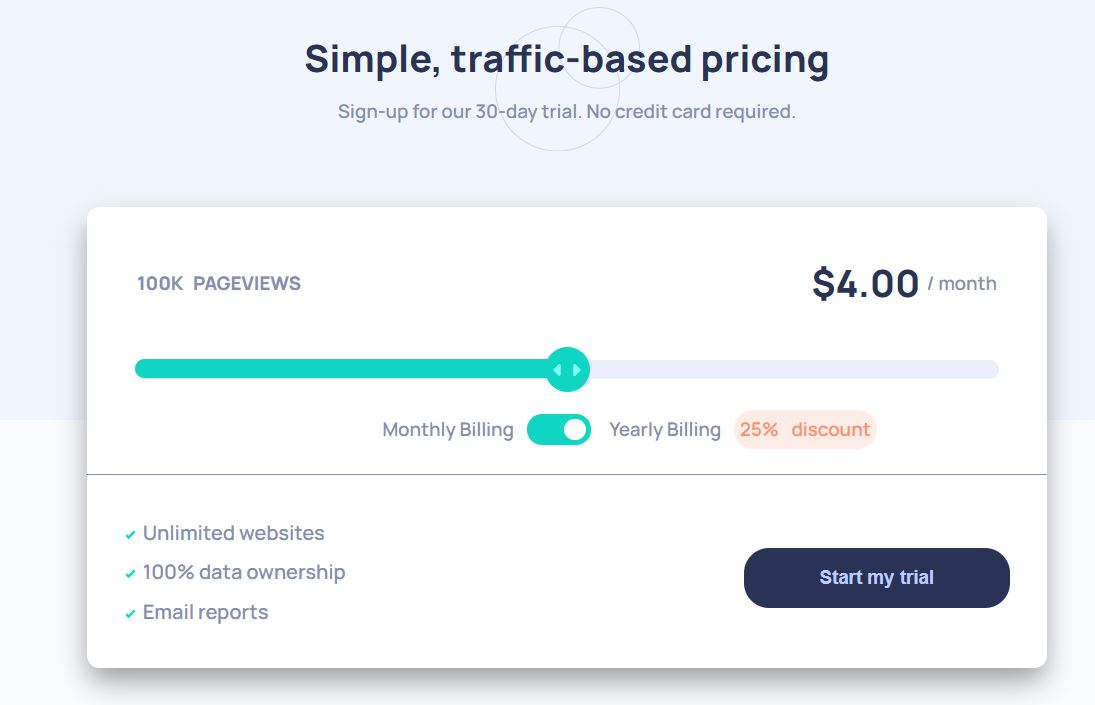
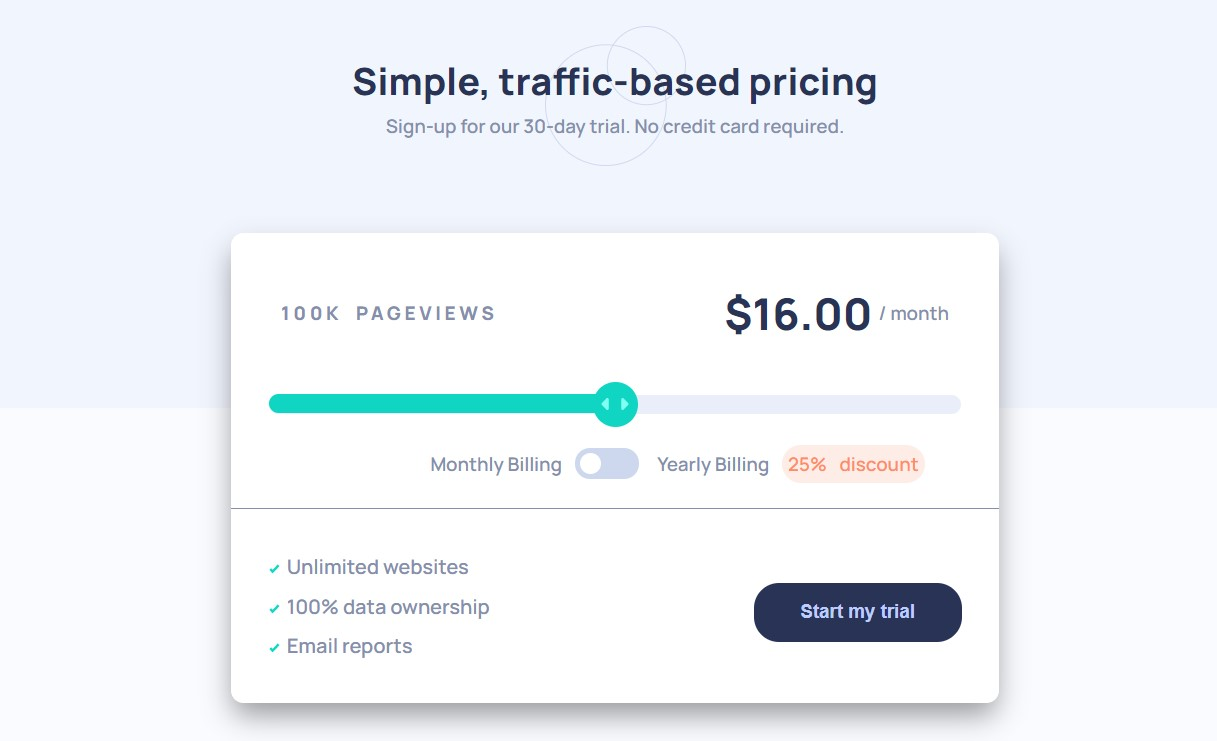
Small Changes
Changed width of main element for larger viewport. Small changes Header element. Added Live Site and Solution URLs.

Changed region(s): [[0.0621, 0.3433, 0.9936, 0.9986], [0.2795, 0.0624, 0.7763, 0.1872]]

diff --git a/dist/style.css b/dist/style.css
@@ -1,2 +1,2 @@
-.header{background-image:url(../images/bg-pattern.svg);background-size:100% 100%;height:350px;text-align:center}.header,.header__descript{background-repeat:no-repeat;padding:1.25rem}.header__descript{background-image:url(../images/pattern-circles.svg);background-position:50%;background-size:contain}.header__descript h1{color:var(--darkDesaturatedBlue-TextandCTA-Background);font-size:1.25rem;font-weight:800;padding-bottom:.625rem}@media (min-width:71.875em){.header__descript h1{font-size:1.875rem}}.header__descript p{color:var(--grayishBlue-Text);font-size:.9375rem;line-height:1.6;margin-inline:auto;max-width:21ch}@media (min-width:71.875em){.header__descript p{max-width:none}}.main{-webkit-margin-before:-8.75rem;background-color:var(--white-PricingComponentBackground);border-radius:.625rem;box-shadow:0 12px 23px -2px rgba(0,0,0,.4);margin:auto;margin-block-start:-8.75rem;text-align:center;width:90%}@media (min-width:71.875em){.main{-webkit-margin-before:-10.625rem;display:grid;grid-template-areas:"view view money money" "slider slider slider slider" "toggle toggle toggle toggle" "offering offering offering offering";margin-block-start:-10.625rem;width:50%}}.main__pageviews{color:var(--grayishBlue-Text);font-size:.9375rem;font-weight:800;padding:2.5rem 1.25rem 1.25rem;text-transform:uppercase;word-spacing:.3125rem}@media (min-width:71.875em){.main__pageviews{align-self:center;grid-area:view;justify-self:start;padding:2.5rem}.main__slider{align-self:center;grid-area:slider;justify-self:center;width:90%}}.main__slider .hidden{height:1px;left:-1000px;overflow:hidden;position:absolute;top:auto;width:1px}.main__month{align-items:center;display:flex;justify-content:center;padding:1.25rem}@media (min-width:71.875em){.main__month{align-self:center;grid-area:money;justify-self:end;padding:2.5rem}}.main__month h2{color:var(--darkDesaturatedBlue-TextandCTA-Background);font-size:1.875rem;font-weight:800;padding-right:.3125rem}.main__month p{color:var(--grayishBlue-Text);font-size:.9375rem}@media (min-width:71.875em){.main__toggle{align-self:center;grid-area:toggle;justify-self:center;margin-left:6.25rem;padding:1.25rem}}.main__offering{border-top:1px solid var(--grayishBlue-Text);color:var(--grayishBlue-Text);padding:1.25rem}@media (min-width:71.875em){.main__offering{align-items:center;display:flex;grid-area:offering;justify-content:space-between;padding:1.875rem}}.main__offering ul{list-style-image:url(../images/icon-check.svg);list-style-position:inside}@media (min-width:71.875em){.main__offering ul{text-align:start}}.main__offering ul li{padding:.3125rem 0}.main__offering .button{background-color:var(--darkDesaturatedBlue-TextandCTA-Background);border:none;border-radius:1.25rem;color:var(--paleBlue-CTA-Text);cursor:pointer;font-size:.9375rem;font-weight:600;margin-top:.625rem;padding:.9375rem;width:60%}@media (min-width:71.875em){.main__offering .button{width:30%}}.main__offering .button:active,.main__offering .button:hover{color:var(--white-PricingComponentBackground)}.toggle{align-items:baseline;align-items:center;border:none;color:var(--grayishBlue-Text);display:flex;justify-content:center;padding-block:1.25rem}.toggle label{cursor:pointer}.toggle label:first-of-type{font-size:.9375rem;padding-right:.625rem}.toggle label:last-of-type{font-size:.9375rem;grid-area:year;padding:0 .625rem 0 .9375rem}.toggle__wrapper{height:1.5625rem;position:relative}.toggle__wrapper input[type=radio]{cursor:pointer;height:1.75rem;margin:0 -.125rem;opacity:0;width:1.75rem}.toggle__background{background-color:var(--lightGrayishBlue-ToggleBackground);border-radius:.75rem;display:block;height:100%;pointer-events:none;position:absolute;top:0;width:100%}.toggle .active{background-color:var(--strongCyan-SliderBackround)}.toggle__button{background-color:var(--white-PricingComponentBackground);border-radius:50%;height:1.0625rem;left:.25rem;position:absolute;right:100%;top:.25rem;transition:all .15s ease-in-out;width:1.0625rem}.toggle #yearlyB:checked~.toggle__button{left:calc(100% - 21px);right:3px}.toggle p{background:var(--lightGrayishRed-DiscountBackground);border-radius:1.25rem;color:var(--lightRed-DiscountText);font-size:.875rem;grid-area:minus;padding:.3125rem}@media (min-width:71.875em){.toggle p{align-items:center;display:flex;font-size:.9375rem;justify-content:center}}.toggle p span{display:none}@media (min-width:71.875em){.toggle p span{display:block;padding-left:.625rem}}.range{margin:auto;position:relative;width:90%}.range input[type=range]{-webkit-appearance:none;-moz-appearance:none;appearance:none;background-color:var(--lightGrayishBlue-EmptySliderBar);border-radius:1.25rem;cursor:pointer;height:.9375rem;outline:none;width:100%}.range input[type=range]::-webkit-slider-thumb{-webkit-appearance:none;appearance:none;background-color:var(--strongCyan-SliderBackround);background-image:url(../images/icon-slider.svg);background-position:50%;background-repeat:no-repeat;border-radius:50%;cursor:pointer;height:2.25rem;position:relative;width:2.25rem;z-index:3}.range input[type=range]::-webkit-slider-thumb:hover{box-shadow:0 5px 13px 3px var(--strongCyan-SliderBackround-active);cursor:pointer;-webkit-transition:.3s ease;transition:.3s ease}.range input[type=range]::-webkit-slider-thumb:active{background-color:var(--strongCyan-SliderBackround-active);box-shadow:0 0 15px 5px var(--strongCyan-SliderBackround);cursor:-webkit-grabbing;cursor:grabbing}.range input[type=range]::-moz-range-thumb{-moz-appearance:none;appearance:none;background-color:var(--strongCyan-SliderBackround);background-image:url(../images/icon-slider.svg);background-position:50%;background-repeat:no-repeat;border:none;border-radius:50%;cursor:pointer;height:2.25rem;position:relative;width:2.25rem;z-index:3}.range input[type=range]::-moz-range-thumb:hover{box-shadow:0 5px 13px 3px var(--strongCyan-SliderBackround-active);cursor:pointer;-moz-transition:.3s ease;transition:.3s ease}.range input[type=range]::-moz-range-thumb:active{background-color:var(--strongCyan-SliderBackround-active);box-shadow:0 0 15px 5px var(--strongCyan-SliderBackround);cursor:grabbing}.range__selector{bottom:-.3125rem;height:2.25rem;left:50%;position:absolute;transform:translateX(-50%);width:2.5rem}.range__background{background-color:var(--strongCyan-SliderBackround);border-radius:1.25rem;height:.9375rem;left:0;pointer-events:none;position:absolute;top:1px;width:50%}:root{--font-Manrope:"Manrope",sans-serif;--softCyan-FullSliderBar:#a5f3eb;--strongCyan-SliderBackround:#10d5c2;--strongCyan-SliderBackround-active:#0ca697;--lightGrayishRed-DiscountBackground:#feece7;--lightRed-DiscountText:#ff8c66;--paleBlue-CTA-Text:#bdccff;--white-PricingComponentBackground:#fff;--veryPaleBlue-MainBackground:#fafbff;--lightGrayishBlue-EmptySliderBar:#eaeefb;--lightGrayishBlue-ToggleBackground:#cdd7ee;--grayishBlue-Text:#858fad;--darkDesaturatedBlue-TextandCTA-Background:#293356}html{box-sizing:border-box;font-size:100%;height:100%}*,:after,:before{box-sizing:inherit;margin:0;padding:0}body{background-color:var(--veryPaleBlue-MainBackground);font-family:var(--font-Manrope)}
+.header{background-image:url(../images/bg-pattern.svg);background-size:100% 100%;height:350px;text-align:center}.header,.header__descript{background-repeat:no-repeat;padding:1.25rem}.header__descript{background-image:url(../images/pattern-circles.svg);background-position:50%;background-size:contain;line-height:1.6}@media (min-width:71.875em){.header__descript{margin-top:1.5625rem}}.header__descript h1{color:var(--darkDesaturatedBlue-TextandCTA-Background);font-size:1.25rem;font-weight:800}@media (min-width:71.875em){.header__descript h1{font-size:1.875rem}}.header__descript p{color:var(--grayishBlue-Text);font-size:.9375rem;line-height:1.6;margin-inline:auto;max-width:21ch}@media (min-width:71.875em){.header__descript p{max-width:none}}.main{-webkit-margin-before:-8.75rem;background-color:var(--white-PricingComponentBackground);border-radius:.625rem;box-shadow:0 12px 23px -2px rgba(0,0,0,.4);margin:auto;margin-block-start:-8.75rem;text-align:center;width:90%}@media (min-width:71.875em){.main{display:grid;grid-template-areas:"view view money money" "slider slider slider slider" "toggle toggle toggle toggle" "offering offering offering offering";width:40%}}.main__pageviews{color:var(--grayishBlue-Text);font-size:.9375rem;font-weight:800;letter-spacing:.1875rem;padding:2.5rem 1.25rem 1.25rem;text-transform:uppercase;word-spacing:.3125rem}@media (min-width:71.875em){.main__pageviews{align-self:center;grid-area:view;justify-self:start;padding:2.5rem}.main__slider{align-self:center;grid-area:slider;justify-self:center;width:90%}}.main__slider .hidden{height:1px;left:-1000px;overflow:hidden;position:absolute;top:auto;width:1px}.main__month{align-items:center;display:flex;justify-content:center;padding:1.25rem}@media (min-width:71.875em){.main__month{align-self:center;grid-area:money;justify-self:end;padding:2.5rem}}.main__month h2{color:var(--darkDesaturatedBlue-TextandCTA-Background);font-size:2.1875rem;font-weight:800;padding-right:.3125rem}.main__month p{color:var(--grayishBlue-Text);font-size:.9375rem}@media (min-width:71.875em){.main__toggle{align-self:center;grid-area:toggle;justify-self:center;margin-left:6.25rem;padding:1.25rem}}.main__offering{border-top:1px solid var(--grayishBlue-Text);color:var(--grayishBlue-Text);padding:1.25rem}@media (min-width:71.875em){.main__offering{align-items:center;display:flex;grid-area:offering;justify-content:space-between;padding:1.875rem}}.main__offering ul{list-style-image:url(../images/icon-check.svg);list-style-position:inside}@media (min-width:71.875em){.main__offering ul{text-align:start}}.main__offering ul li{padding:.3125rem 0}.main__offering .button{background-color:var(--darkDesaturatedBlue-TextandCTA-Background);border:none;border-radius:1.25rem;color:var(--paleBlue-CTA-Text);cursor:pointer;font-size:.9375rem;font-weight:600;margin-top:.625rem;padding:.9375rem;width:60%}@media (min-width:71.875em){.main__offering .button{width:30%}}.main__offering .button:active,.main__offering .button:hover{color:var(--white-PricingComponentBackground)}.toggle{align-items:baseline;align-items:center;border:none;color:var(--grayishBlue-Text);display:flex;justify-content:center;padding-block:1.25rem}.toggle label{cursor:pointer}.toggle label:first-of-type{font-size:.9375rem;padding-right:.625rem}.toggle label:last-of-type{font-size:.9375rem;grid-area:year;padding:0 .625rem 0 .9375rem}.toggle__wrapper{height:1.5625rem;position:relative}.toggle__wrapper input[type=radio]{cursor:pointer;height:1.75rem;margin:0 -.125rem;opacity:0;width:1.75rem}.toggle__background{background-color:var(--lightGrayishBlue-ToggleBackground);border-radius:.75rem;display:block;height:100%;pointer-events:none;position:absolute;top:0;width:100%}.toggle .active{background-color:var(--strongCyan-SliderBackround)}.toggle__button{background-color:var(--white-PricingComponentBackground);border-radius:50%;height:1.0625rem;left:.25rem;position:absolute;right:100%;top:.25rem;transition:all .15s ease-in-out;width:1.0625rem}.toggle #yearlyB:checked~.toggle__button{left:calc(100% - 21px);right:3px}.toggle p{background:var(--lightGrayishRed-DiscountBackground);border-radius:1.25rem;color:var(--lightRed-DiscountText);font-size:.875rem;grid-area:minus;padding:.3125rem}@media (min-width:71.875em){.toggle p{align-items:center;display:flex;font-size:.9375rem;justify-content:center}}.toggle p span{display:none}@media (min-width:71.875em){.toggle p span{display:block;padding-left:.625rem}}.range{margin:auto;position:relative;width:90%}.range input[type=range]{-webkit-appearance:none;-moz-appearance:none;appearance:none;background-color:var(--lightGrayishBlue-EmptySliderBar);border-radius:1.25rem;cursor:pointer;height:.9375rem;outline:none;width:100%}.range input[type=range]::-webkit-slider-thumb{-webkit-appearance:none;appearance:none;background-color:var(--strongCyan-SliderBackround);background-image:url(../images/icon-slider.svg);background-position:50%;background-repeat:no-repeat;border-radius:50%;cursor:pointer;height:2.25rem;position:relative;width:2.25rem;z-index:3}.range input[type=range]::-webkit-slider-thumb:hover{box-shadow:0 5px 13px 3px var(--strongCyan-SliderBackround-active);cursor:pointer;-webkit-transition:.3s ease;transition:.3s ease}.range input[type=range]::-webkit-slider-thumb:active{background-color:var(--strongCyan-SliderBackround-active);box-shadow:0 0 15px 5px var(--strongCyan-SliderBackround);cursor:-webkit-grabbing;cursor:grabbing}.range input[type=range]::-moz-range-thumb{-moz-appearance:none;appearance:none;background-color:var(--strongCyan-SliderBackround);background-image:url(../images/icon-slider.svg);background-position:50%;background-repeat:no-repeat;border:none;border-radius:50%;cursor:pointer;height:2.25rem;position:relative;width:2.25rem;z-index:3}.range input[type=range]::-moz-range-thumb:hover{box-shadow:0 5px 13px 3px var(--strongCyan-SliderBackround-active);cursor:pointer;-moz-transition:.3s ease;transition:.3s ease}.range input[type=range]::-moz-range-thumb:active{background-color:var(--strongCyan-SliderBackround-active);box-shadow:0 0 15px 5px var(--strongCyan-SliderBackround);cursor:grabbing}.range__selector{bottom:-.3125rem;height:2.25rem;left:50%;position:absolute;transform:translateX(-50%);width:2.5rem}.range__background{background-color:var(--strongCyan-SliderBackround);border-radius:1.25rem;height:.9375rem;left:0;pointer-events:none;position:absolute;top:1px;width:50%}:root{--font-Manrope:"Manrope",sans-serif;--softCyan-FullSliderBar:#a5f3eb;--strongCyan-SliderBackround:#10d5c2;--strongCyan-SliderBackround-active:#0ca697;--lightGrayishRed-DiscountBackground:#feece7;--lightRed-DiscountText:#ff8c66;--paleBlue-CTA-Text:#bdccff;--white-PricingComponentBackground:#fff;--veryPaleBlue-MainBackground:#fafbff;--lightGrayishBlue-EmptySliderBar:#eaeefb;--lightGrayishBlue-ToggleBackground:#cdd7ee;--grayishBlue-Text:#858fad;--darkDesaturatedBlue-TextandCTA-Background:#293356}html{box-sizing:border-box;font-size:100%;height:100%}*,:after,:before{box-sizing:inherit;margin:0;padding:0}body{background-color:var(--veryPaleBlue-MainBackground);font-family:var(--font-Manrope)}
 /*# sourceMappingURL=style.css.map */

diff --git a/app/scss/components/card.scss b/app/scss/components/card.scss
@@ -14,9 +14,13 @@
         background-position: center;
         background-size: contain;
         padding: rem(20);
+        line-height: 1.6;
+
+        @include breakpoint(large) {
+            margin-top: rem(25);
+        }
 
         h1 {
-            padding-bottom: rem(10);
             font-size: rem(20);
             font-weight: 800;
             color: var(--darkDesaturatedBlue-TextandCTA-Background);
@@ -50,8 +54,7 @@
     box-shadow: 0px 12px 23px -2px rgba(0,0,0,0.4);
 
     @include breakpoint(large) {
-        width: 50%;
-        margin-block-start: rem(-170);
+        width: 40%;
         display: grid;
         grid-template-areas: 
         "view view money money"
@@ -67,6 +70,7 @@
         font-size: rem(15);
         word-spacing: rem(5);
         font-weight: 800;
+        letter-spacing: rem(3);
 
         @include breakpoint(large) {
             grid-area: view;
@@ -108,7 +112,7 @@
         }
 
         h2 {
-            font-size: rem(30);
+            font-size: rem(35);
             font-weight: 800;
             padding-right: rem(5);
             color: var(--darkDesaturatedBlue-TextandCTA-Background);

diff --git a/README.md b/README.md
@@ -7,6 +7,7 @@ This is a solution to the [Interactive pricing component challenge on Frontend M
 - [Overview](#overview)
   - [The challenge](#the-challenge)
   - [Screenshot](#screenshot)
+  - [Links](#links)
 - [My process](#my-process)
   - [Built with](#built-with)
   - [What I learned](#what-i-learned)
@@ -25,7 +26,12 @@ Users should be able to:
 
 ### Screenshot
 
-![](./images/Screenshot.jpg)
+![](images/screenshot.jpg)
+
+### Links
+
+- Solution URL: (https://www.frontendmentor.io/solutions/flexbox-css-grid-javascript-Hyw2uWA7q)
+- Live Site URL: (https://blurryface1998.github.io/interactive-pricing-component-main/)
 
 ## My process
 
